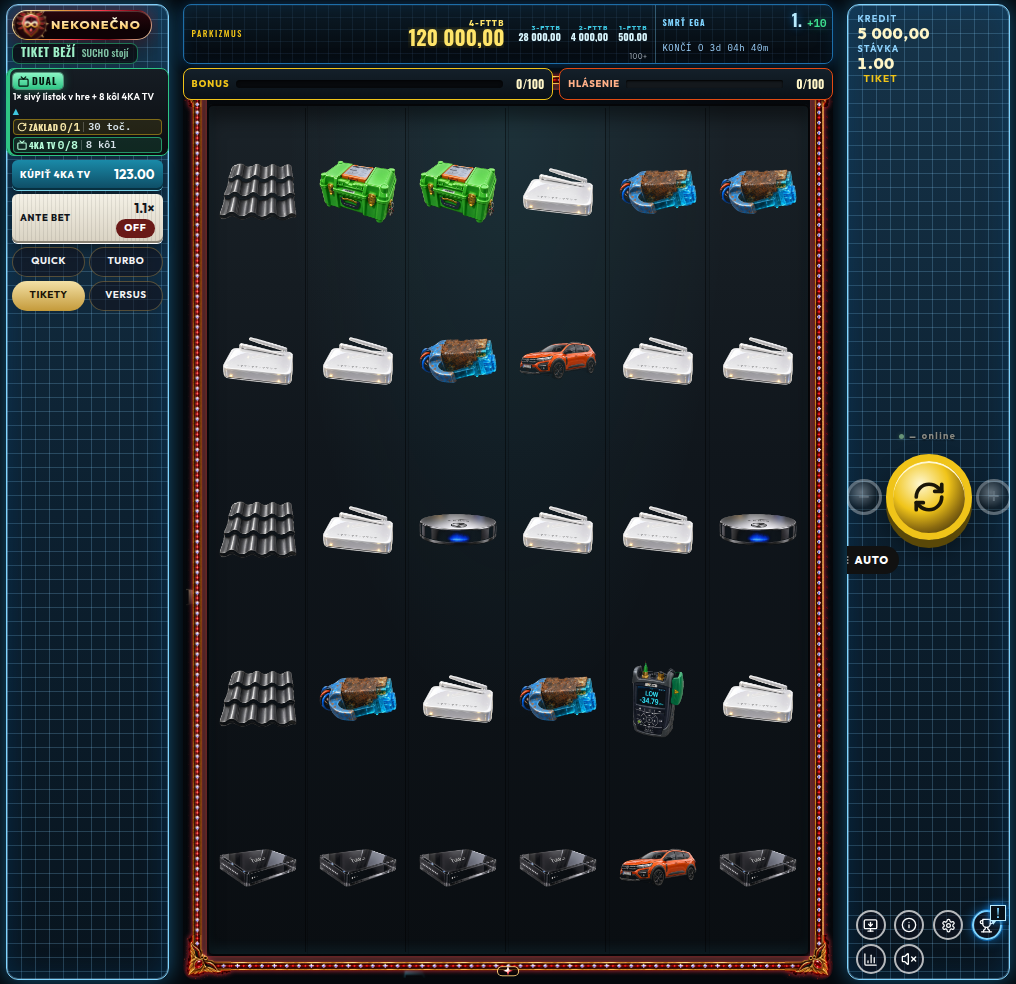
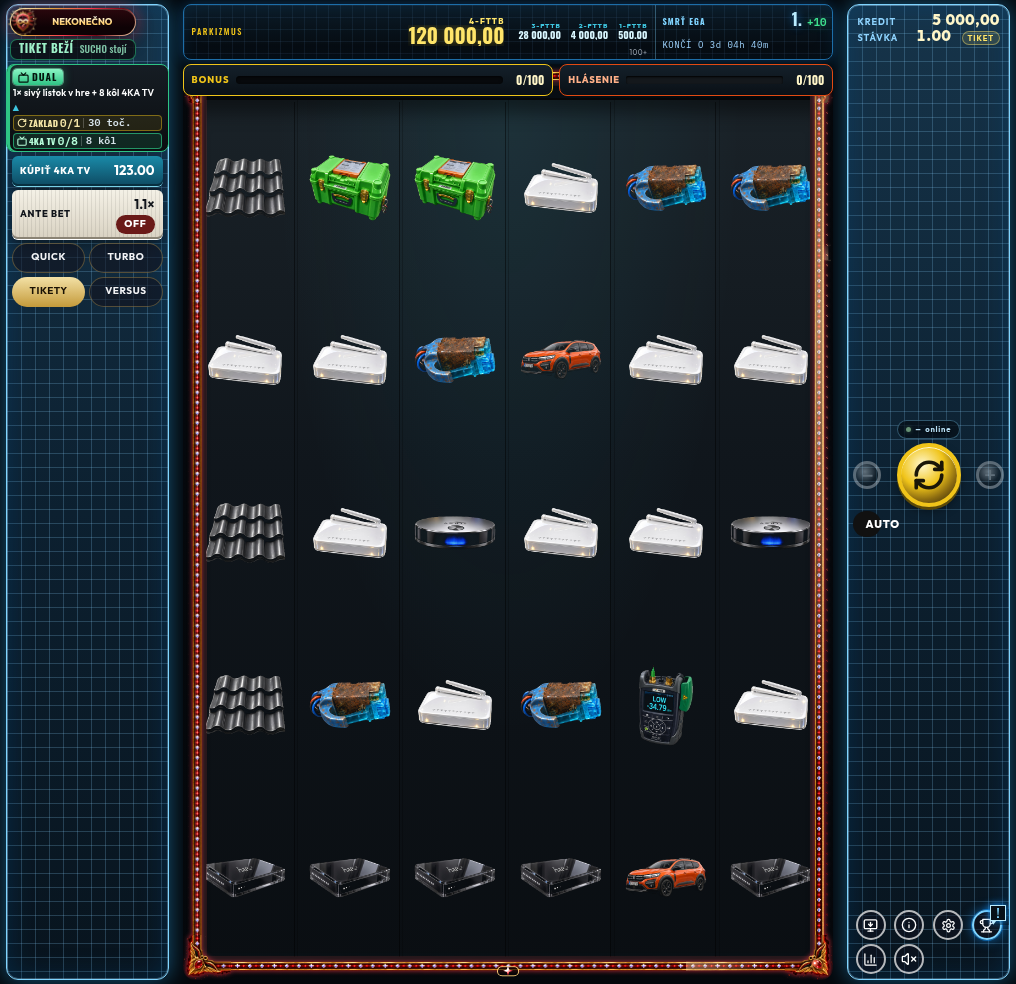
Šírka: spin v lište, päť radov a celé NEKONEČNO
−, + a AUTO sedia v šírke pravej lišty. Piaty rad valcov ostáva nad rámom. Rank NEKONEČNO sa už neskracuje a online aj TIKET sú v malých pilulkách.

Changed region(s): [[0.0, 0.0, 1.0, 0.9756], [0.8238, 0.0, 1.0, 0.0915], [0.6713, 0.9756, 0.7323, 1.0]]

diff --git a/src/components/slot/layouts.css b/src/components/slot/layouts.css
@@ -368,29 +368,44 @@
   width: auto;
   min-width: 0;
   max-width: 100%;
-  padding: 6px 6px 0;
+  padding: 4px 4px 0;
   gap: 3px;
-  overflow: hidden;
+  overflow: visible;
 }
 
 .stage.is-land .rank-chip,
 .stage.is-land.shell-pc .rank-chip,
-.stage.is-land.shell-mw .rank-chip {
+.stage.is-land.shell-mw .rank-chip,
+.stage.is-land.shell-pwa .rank-chip {
   width: 100%;
   max-width: 100%;
   height: auto;
-  min-height: 30px;
+  min-height: 28px;
   max-height: none;
   min-width: 0;
   justify-content: flex-start;
-  overflow: hidden;
+  overflow: visible;
+  gap: 2px;
+  padding: 2px 4px 2px 2px;
 }
 
-.stage.is-land .rank-chip em {
+.stage.is-land .rank-chip.rf-pill .rf {
+  margin: 0 1px 0 2px;
+  transform: scale(0.78);
+  transform-origin: center;
+}
+
+.stage.is-land .rank-chip em,
+.stage.is-land.shell-mw .rank-chip em,
+.stage.is-land.shell-pwa .rank-chip em,
+.stage.is-land.shell-pc .rank-chip em {
   min-width: 0;
-  overflow: hidden;
-  text-overflow: ellipsis;
+  flex: 1 1 auto;
+  overflow: visible;
+  text-overflow: clip;
   white-space: nowrap;
+  font-size: 0.58rem;
+  letter-spacing: 0;
 }
 
 .stage.is-land .sucho-chip {
@@ -695,15 +710,31 @@
 .stage.is-land.shell-mw .reel-frame,
 .stage.is-land.shell-pwa .reel-frame,
 .stage.is-land.shell-pc .reel-frame {
+  --bz: 8px;
   flex: 1 1 auto;
+  display: flex;
+  flex-direction: column;
   width: 100%;
   height: 100%;
   max-width: 100%;
   max-height: 100%;
   min-height: 0;
   margin: 0;
-  padding-top: 36px;
+  /* Top inset clears the BONUS strip. Bottom inset keeps the 5th row inside the lip. */
+  padding: 34px 8px 12px;
   box-sizing: border-box;
+}
+
+.stage.is-land .reel-window,
+.stage.is-land.shell-mw .reel-window,
+.stage.is-land.shell-pwa .reel-window,
+.stage.is-land.shell-pc .reel-window {
+  flex: 1 1 0;
+  align-self: stretch;
+  width: 100%;
+  height: auto;
+  min-height: 0;
+  max-height: none;
 }
 
 .stage.is-land .bottom-hud,
@@ -750,32 +781,49 @@
 
 .stage.is-land .credit-stack p {
   display: flex;
-  flex-direction: column;
-  align-items: flex-start;
-  gap: 0;
+  flex-direction: row;
+  flex-wrap: wrap;
+  align-items: baseline;
+  justify-content: space-between;
+  gap: 0 6px;
   margin: 0;
   white-space: normal;
   font-size: 0.56rem;
   font-weight: 700;
-  letter-spacing: 0.14em;
+  letter-spacing: 0.12em;
   color: #8fd4ff;
 }
 
 .stage.is-land .credit-stack b {
   min-width: 0;
-  font-size: 0.98rem;
+  margin-left: auto;
+  font-size: 0.92rem;
   line-height: 1.05;
   color: #fff6c8;
-  text-align: left;
+  text-align: right;
+}
+
+.stage.is-land .bet-lock {
+  flex: 0 0 auto;
+  margin: 0 0 0 4px;
+  padding: 1px 5px;
+  border-radius: 999px;
+  border: 1px solid rgb(255 229 106 / 0.45);
+  background: rgb(255 229 106 / 0.12);
+  color: #ffe56a;
+  font-size: 0.48rem;
+  letter-spacing: 0.12em;
+  line-height: 1.3;
 }
 
 .stage.is-land .hud-right,
 .stage.is-land.shell-mw .hud-right,
-.stage.is-land.shell-pwa .hud-right {
+.stage.is-land.shell-pwa .hud-right,
+.stage.is-land.shell-pc .hud-right {
   order: 2;
   flex: 1 1 auto;
   display: grid;
-  grid-template-columns: 40px clamp(58px, 18vh, 86px) 40px;
+  grid-template-columns: 28px minmax(0, 1fr) 28px;
   grid-template-areas:
     "meter meter meter"
     "minus spin plus"
@@ -784,11 +832,14 @@
   justify-content: center;
   justify-items: center;
   align-items: center;
-  gap: 6px 2px;
+  gap: 4px;
   width: 100%;
+  max-width: 100%;
   height: auto;
+  min-width: 0;
   min-height: 0;
   position: relative;
+  box-sizing: border-box;
 }
 
 .stage.is-land .online-hold {
@@ -797,8 +848,29 @@
   bottom: auto;
   grid-area: meter;
   justify-self: center;
+  width: auto;
+  max-width: 100%;
   margin: 0;
   pointer-events: auto;
+}
+
+.stage.is-land .online-meter {
+  max-width: 100%;
+  padding: 1px 8px;
+  border-radius: 999px;
+  border: 1px solid rgb(125 212 255 / 0.35);
+  background: rgb(6 14 22 / 0.72);
+  color: #b7dff5;
+  gap: 4px;
+}
+
+.stage.is-land .online-meter b {
+  font-size: 0.62rem;
+}
+
+.stage.is-land .online-meter span {
+  font-size: 0.48rem;
+  letter-spacing: 0.1em;
 }
 
 .stage.is-land .hud-right > .round-btn:nth-of-type(1) { grid-area: minus; }
@@ -806,24 +878,55 @@
 .stage.is-land .hud-right > .round-btn:nth-of-type(3) { grid-area: plus; }
 .stage.is-land .hud-right > .auto-menu,
 .stage.is-land .hud-right > .auto-pill.on,
-.stage.is-land .hud-right > button.auto-pill { grid-area: auto; }
+.stage.is-land .hud-right > button.auto-pill { grid-area: auto; width: 100%; max-width: 100%; min-width: 0; }
 
-.stage.is-land .spin-btn,
-.stage.is-land .hud-spin {
-  display: grid;
-  width: clamp(58px, 18vh, 86px);
-  height: clamp(58px, 18vh, 86px);
-  flex-basis: auto;
+.stage.is-land .auto-menu {
+  display: flex;
+  justify-content: center;
+  width: 100%;
+  max-width: 100%;
+  min-width: 0;
 }
 
-.stage.is-land .round-btn {
-  width: 36px;
-  height: 36px;
+.stage.is-land .spin-btn,
+.stage.is-land .hud-spin,
+.stage.is-land.shell-mw .spin-btn,
+.stage.is-land.shell-pwa .spin-btn,
+.stage.is-land.shell-pc .spin-btn {
+  display: grid;
+  width: 100%;
+  height: auto;
+  max-width: 64px;
+  max-height: 64px;
+  aspect-ratio: 1;
+  flex: 0 1 auto;
+  justify-self: center;
+  border-width: 4px;
+  box-shadow:
+    0 3px 0 #5a4808,
+    0 5px 10px rgb(0 0 0 / 0.35),
+    inset 0 1px 0 #fff8d2;
+}
+
+.stage.is-land .round-btn,
+.stage.is-land.shell-mw .round-btn,
+.stage.is-land.shell-pwa .round-btn,
+.stage.is-land.shell-pc .round-btn {
+  width: 28px;
+  height: 28px;
+  max-width: 100%;
+  padding: 0;
+  flex: 0 0 28px;
 }
 
 .stage.is-land .auto-pill,
 .stage.is-land .auto-menu .auto-pill {
-  min-height: 28px;
+  width: auto;
+  max-width: 100%;
+  min-height: 26px;
+  margin: 0;
+  padding: 2px 8px;
+  box-sizing: border-box;
 }
 
 .stage.is-land .hud-icons,

diff --git a/src/lib/slot/changelog.ts b/src/lib/slot/changelog.ts
@@ -7,6 +7,7 @@ export interface ChangeNote {
 }
 
 export const CHANGELOG: readonly ChangeNote[] = [
+  { day: "2026-10-15", text: "Na šírku sa −, + a AUTO zmestia do pravej lišty. Všetkých päť radov valcov je vidno celé. Rank NEKONEČNO sa už neskracuje." },
   { day: "2026-10-15", text: "Na šírku sú valce cez celú výšku medzi lištami. Vľavo je jeden panel: rank, lístok, KÚPIŤ 4KA, ANTE a režimy QUICK / TURBO / TIKETY / VERSUS v mriežke 2×2. Vpravo je kredit so stávkou, veľké točenie s − a + vedľa seba, pod ním AUTO a ikony. Jackpot a SMRŤ EGA sú len nad valcami. Lístok už nesedí na valcoch. Nápis v pozadí je stmavený." },
   { day: "2026-10-15", text: "Na karte EVENT sú Podmienky zbalené. Šípka „Podmienky ▾ Rozbaliť“ ich otvorí, „▴ Zbaliť“ zatvorí. Otvorené podmienky sa rolujú vo vlastnom okne. Hore ostáva odpočet, stav hráča a poradie bez rolovania celej karty." },
   { day: "2026-10-15", text: "AUTO sa otvára ako list dole s tmavým pozadím a nezakrýva valce ani lístok. Celá veta o pauze ostáva čitateľná. DUAL lístok (ZÁKLAD a 4KA TV) sa zalamuje, dlhý text končí trojbodkou. V pravom hornom páse sedia jackpot aj SMRŤ EGA vedľa seba: miesto, živé RP (zelené v pluse, červené v mínuse) a KONČÍ O. Kto nie je v evente, vidí krátky vstup. Ťuknutie otvorí EVENT. Text sa už neprekrýva. Na šírku sú valce v strede a ovládanie v stĺpcoch, aj na tablete, úzkom kryte, rozloženom Z Fold a vo Flex režime." },
